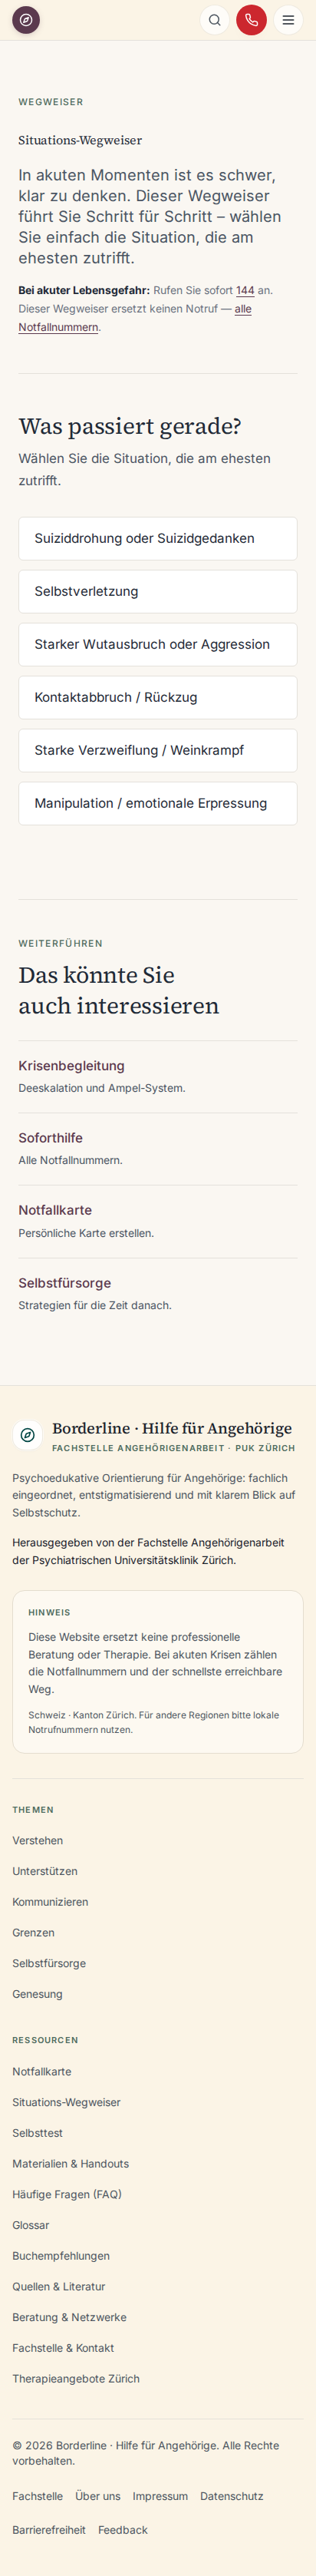
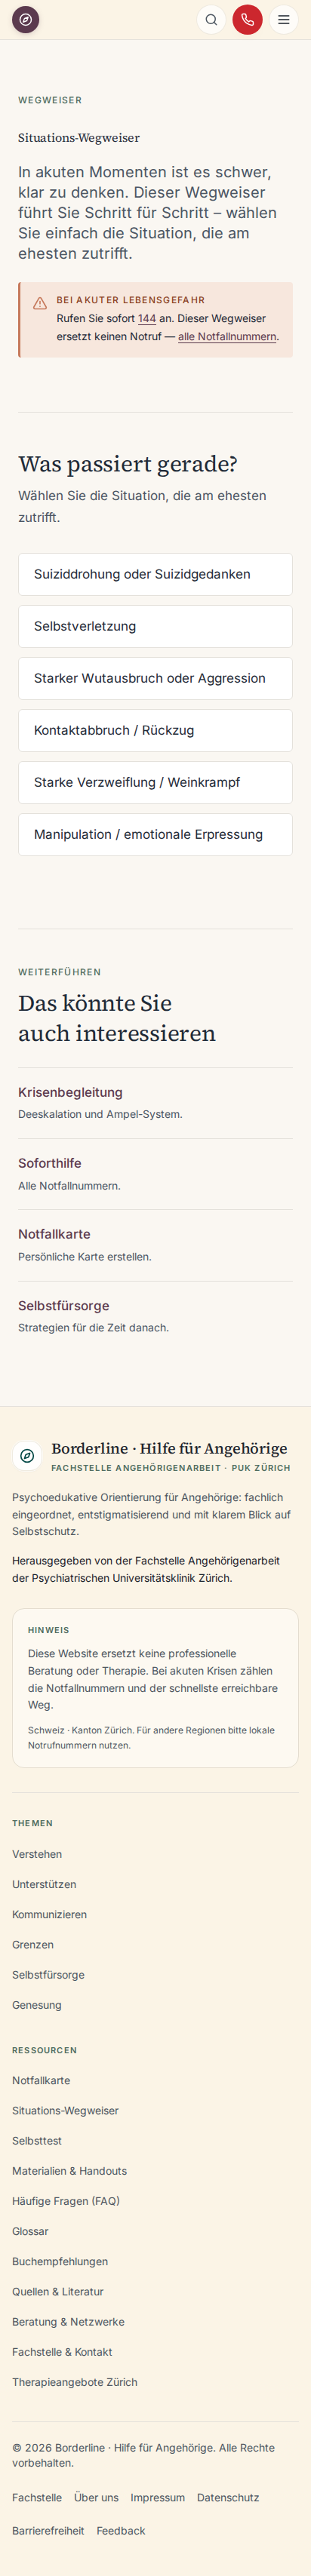
Merge pull request #550 from christaegger-dot/claude/editorial-callout-1780060621

Pull request: Aufgabe 4 — Semantische Callout-Varianten (Hinweis/Achtung), sparsam eingesetzt
## Aufgabe 4 — Zurückhaltende semantische Register-Ebene

Freigegeben: „2 Varianten — Hinweis + Achtung". Im Fliesstext sah ein Krisenhinweis bisher fast aus wie ein Beruhigungsabsatz; die Dringlichkeit war innerhalb einer Seite nicht triagierbar.

### Umsetzung
- Neue, wiederverwendbare Komponente **`EditorialCallout`** (`components/editorial`, übers Barrel exportiert) mit zwei disziplinierten Varianten:
  - **Hinweis** — ruhig: Cream-Deep-Surface, Sage-Schiene, Info-Icon.
  - **Achtung** — warm abgesetzt: Terrakotta-Wash (#f7e7dd) + Terrakotta-Schiene (#C67A5C), Warn-Icon. Gedämpfte Fortsetzung der Soforthilfe-Ampel.
  - Keine Animation (reduced-motion unkritisch); `<aside>` mit `aria-label`.
- **Sparsam eingesetzt** (zwei eindeutige Orte, keine Inflation):
  - `/wegweiser` — „Bei akuter Lebensgefahr" als **Achtung** (vorher unscheinbarer Tertiär-Absatz).
  - `/selbsttest` — Beratungs-Disclaimer als **Hinweis**.

### Verifikation
- **axe `color-contrast`: 0 Violations** je Variante (Label + Body auf der jeweiligen Surface, WCAG AA).
- Visual-Baselines für `wegweiser` (3 Viewports) neu generiert (Achtung-Box verändert die Seite beabsichtigt); sonst keine Drift.
- `typecheck` · `lint` · `test` (361/361) · `build` — grün.

### Editorial-Hoheit
Platzierung bewusst konservativ auf zwei Lehrbuch-Fälle beschränkt. Weitere Einsatzorte (oder eine dritte „Entlastung"-Variante in Salbei) jederzeit ergänzbar — deine Entscheidung.

### Commits
[…]

diff --git a/client/src/components/editorial/EditorialCallout.tsx b/client/src/components/editorial/EditorialCallout.tsx
@@ -1,0 +1,102 @@
+import type { ReactNode } from "react";
+import { Info, AlertTriangle } from "lucide-react";
+
+export type EditorialCalloutVariant = "hinweis" | "achtung";
+
+interface EditorialCalloutProps {
+  /**
+   * Semantisches Register:
+   * - `hinweis` (Default): ruhiger, neutraler Cream-Deep-Block mit Sage-Schiene.
+   *   Für Einordnung/Kontext.
+   * - `achtung`: warm abgesetzter Terrakotta-Block — gedämpfte Fortsetzung der
+   *   Soforthilfe-Ampel, damit Dringlichkeit innerhalb einer Seite erkennbar
+   *   wird, ohne die Ruhe zu brechen.
+   */
+  variant?: EditorialCalloutVariant;
+  /** Sichtbares Label oben. Default je nach Variante («Hinweis» / «Achtung»). */
+  title?: string;
+  children: ReactNode;
+  className?: string;
+}
+
+interface VariantStyle {
+  label: string;
+  surface: string;
+  rule: string;
+  labelColor: string;
+  Icon: typeof Info;
+}
+
+// Kontraste auf der jeweiligen Surface mit axe verifiziert (WCAG AA):
+// hinweis  – Label #3f5a4e auf #ebe2cf, Body --fg-primary auf #ebe2cf
+// achtung  – Label #8a3f1d auf #f7e7dd, Body --fg-primary auf #f7e7dd
+const VARIANTS: Record<EditorialCalloutVariant, VariantStyle> = {
+  hinweis: {
+    label: "Hinweis",
+    surface: "var(--bg-cream-deep)",
+    rule: "var(--accent-label)",
+    labelColor: "#3f5a4e",
+    Icon: Info,
+  },
+  achtung: {
+    label: "Achtung",
+    surface: "#f7e7dd",
+    rule: "#c67a5c",
+    labelColor: "#8a3f1d",
+    Icon: AlertTriangle,
+  },
+};
+
+/**
+ * Zurückhaltende semantische Register-Ebene als Ergänzung zur ruhigen
+ * Sand/Aubergine/Salbei-Palette. Bewusst sparsam einsetzen — keine flächige
+ * Callout-Inflation. Keine Animation (reduced-motion unkritisch).
+ */
+export function EditorialCallout({
+  variant = "hinweis",
+  title,
+  children,
+  className,
+}: EditorialCalloutProps) {
+  const { label, surface, rule, labelColor, Icon } = VARIANTS[variant];
+  const heading = title ?? label;
+
+  return (
+    <aside
+      className={
+        className
+          ? `my-6 flex gap-3 rounded-sm border-l-[3px] p-4 ${className}`
+          : "my-6 flex gap-3 rounded-sm border-l-[3px] p-4"
+      }
+      style={{ background: surface, borderColor: rule }}
+      aria-label={heading}
+    >
+      <Icon
+        aria-hidden="true"
+        className="mt-0.5 h-5 w-5 flex-shrink-0"
+        style={{ color: rule }}
+      />
+      <div className="min-w-0">
+        <p
+          className="text-xs font-medium uppercase"
+          style={{
+            color: labelColor,
+            letterSpacing: "var(--tracking-caps)",
+          }}
+        >
+          {heading}
+        </p>
+        <div
+          className="mt-1"
+          style={{
+            color: "var(--fg-primary)",
+            fontSize: "var(--text-sm)",
+            lineHeight: "var(--lh-relaxed)",
+          }}
+        >
+          {children}
+        </div>
+      </div>
+    </aside>
+  );
+}

diff --git a/client/src/pages/SelbsttestPage.tsx b/client/src/pages/SelbsttestPage.tsx
@@ -1,8 +1,7 @@
 import {
   DisplayHeading,
+  EditorialCallout,
   EditorialLayout,
-  EditorialProse,
-  EditorialSectionBlock,
   EyebrowLabel,
   Lede,
 } from "@/components/editorial";
@@ -45,20 +44,15 @@ export default function SelbsttestPage() {
         </div>
 
         {/* ── Hinweis ── */}
-        <EditorialSectionBlock rule>
-          <EditorialProse>
-            <p>
-              Dieser Test ersetzt keine professionelle Beratung. Er dient
-              lediglich als Orientierungshilfe, um Ihnen den Einstieg in unsere
-              Inhalte zu erleichtern. Bei akuten Krisen wenden Sie sich bitte an
-              die{" "}
-              <AppLink href="/soforthilfe" className="editorial-link">
-                Notfallressourcen
-              </AppLink>
-              .
-            </p>
-          </EditorialProse>
-        </EditorialSectionBlock>
+        <EditorialCallout variant="hinweis" className="mt-12 md:mt-16">
+          Dieser Test ersetzt keine professionelle Beratung. Er dient lediglich
+          als Orientierungshilfe, um Ihnen den Einstieg in unsere Inhalte zu
+          erleichtern. Bei akuten Krisen wenden Sie sich bitte an die{" "}
+          <AppLink href="/soforthilfe" className="editorial-link">
+            Notfallressourcen
+          </AppLink>
+          .
+        </EditorialCallout>
       </EditorialLayout>
     </Layout>
   );

diff --git a/client/src/pages/Wegweiser.tsx b/client/src/pages/Wegweiser.tsx
@@ -1,5 +1,6 @@
 import {
   DisplayHeading,
+  EditorialCallout,
   EditorialLayout,
   EyebrowLabel,
   Lede,
@@ -40,17 +41,11 @@ export default function Wegweiser() {
             führt Sie Schritt für Schritt – wählen Sie einfach die Situation,
             die am ehesten zutrifft.
           </Lede>
-          <p
-            className="mt-4"
-            style={{
-              fontSize: "var(--text-sm)",
-              lineHeight: "var(--lh-relaxed)",
-              color: "var(--fg-tertiary)",
-            }}
+          <EditorialCallout
+            variant="achtung"
+            title="Bei akuter Lebensgefahr"
+            className="mt-6"
           >
-            <strong style={{ color: "var(--fg-primary)" }}>
-              Bei akuter Lebensgefahr:
-            </strong>{" "}
             Rufen Sie sofort{" "}
             <a href={`tel:${rot144.tel}`} className="editorial-link">
               {rot144.nummer}
@@ -60,7 +55,7 @@ export default function Wegweiser() {
               alle Notfallnummern
             </AppLink>
             .
-          </p>
+          </EditorialCallout>
         </header>
 
         {/* ── Hairline-Trenner Editorial-Hero → funktionales Tool ── */}

diff --git a/client/src/components/editorial/index.ts b/client/src/components/editorial/index.ts
@@ -23,3 +23,7 @@ export { EyebrowLabel } from "./EyebrowLabel";
 export { DisplayHeading } from "./DisplayHeading";
 export { Lede } from "./Lede";
 export { EditorialBody } from "./EditorialBody";
+export {
+  EditorialCallout,
+  type EditorialCalloutVariant,
+} from "./EditorialCallout";